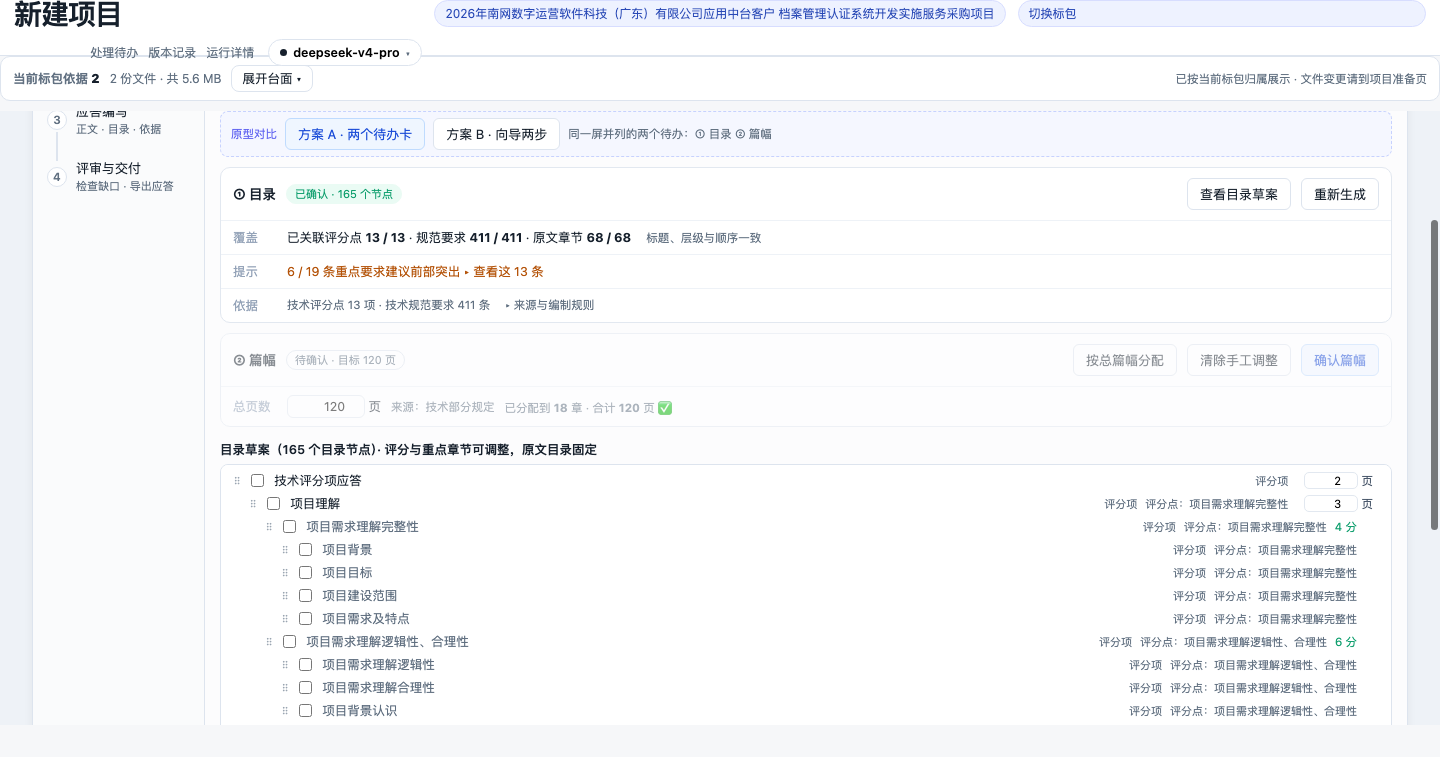
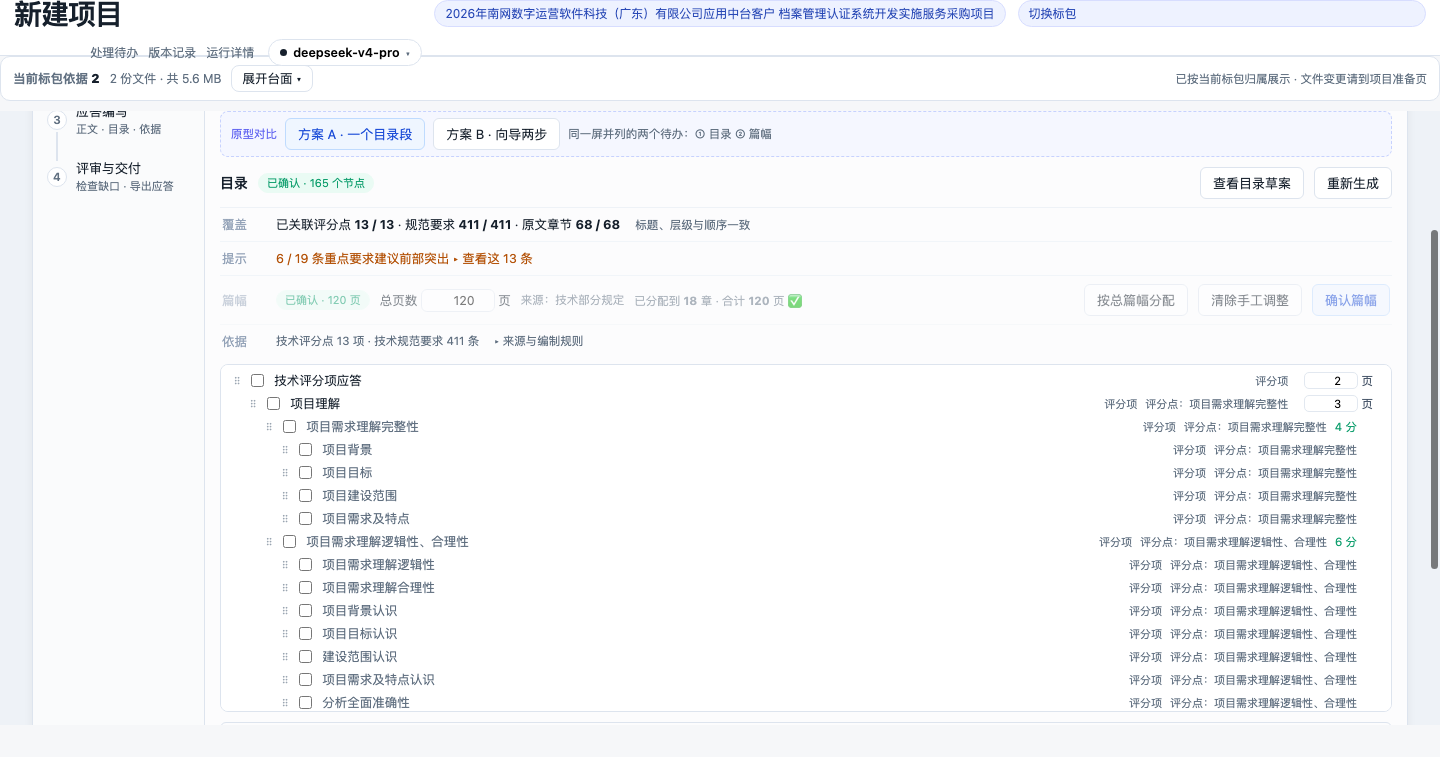
docs(design): 产品审查后的方案 A 改版 —— 目录是一个对象，四行同级
## 审查发现
1. 「目录」被切成三处：① 目录卡（结论）→ ② 篇幅卡 → 目录草案 h5+165 行（内容），
   篇幅卡把结论与内容劈开，认知顺序被打断
2. 信息确实不是一个层级：卡片级（目录/篇幅两张卡）→ h5 小标题（目录草案）→ 行（sr-erow）
   三种层级混排，且「目录」与「目录草案」两个名字重复指同一对象

## 审查结论
目录是一个对象，其内部三类信息应同级：
  section 标题「目录」（与"应答类型"同级）
  ├ 覆盖行 / 提示行 / 篇幅行 / 依据行   ← 四行同级，篇幅是"列表的表头控制"
  └ 165 行目录（带页数列）

## 改版（方案 A）
- 取消两张卡片，改为一个「目录」段：标题 + 右侧状态胶囊「已确认 · 165 个节点」+ 两个动作
- 段内四行同级：覆盖 / 提示 / 篇幅 / 依据；篇幅有自己的状态胶囊与动作，不再另起一张卡
- 隐藏重复的「目录草案（165 个节点）」h5（标题已并入"目录"段）
- 篇幅确认后主操作推进为产品原有的「进入技术应答编写」

## 修掉自己引入的一个错误
改版时误把目录状态胶囊写成篇幅文案（显示"待确认 · 目标 120 页"）；
已恢复目录胶囊为「已确认 · 165 个节点」，篇幅状态移到篇幅行自己的胶囊。

## 实测
方案A：四行同级 ✅ · 重复 h5 隐藏 ✅ · 18 行可编辑 · 合计 120 页 ✅ ·
        确认篇幅后胶囊变「已确认 · 120 页」且出现进入编写 ✅
方案B：第 1 步 0 个页数输入、第 2 步灰态；确认目录后 18 行出现 ✅ · 无 JS 错误 ✅

diff --git a/docs/design/mockups/prod-prototype.html b/docs/design/mockups/prod-prototype.html
@@ -9266,59 +9266,54 @@ GB/T 35274-2023《数据安全技术 大数据服务安全能力要求》
       
       <div id="protoSwitch" style="display:flex;align-items:center;gap:8px;margin:10px 0;padding:6px 10px;border:1px dashed #c7d2fe;border-radius:8px;background:#f5f7ff">
         <span style="font-size:11.5px;color:#6366f1">原型对比</span>
-        <button class="mw-btn" id="btnPlanA" style="border-color:#bfdbfe;background:#eff6ff;color:#1d4ed8">方案 A · 两个待办卡</button>
+        <button class="mw-btn" id="btnPlanA" style="border-color:#bfdbfe;background:#eff6ff;color:#1d4ed8">方案 A · 一个目录段</button>
         <button class="mw-btn" id="btnPlanB">方案 B · 向导两步</button>
-        <span class="sr-dim" id="protoHint">同一屏并列的两个待办：① 目录  ② 篇幅</span>
+        <span class="sr-dim" id="protoHint">目录是一个对象：摘要 / 篇幅 / 依据 同级，列表在下</span>
       </div>
 
-      <!-- ══ 方案 A：两个待办卡 ══ -->
+      <!-- ══ 方案 A：一个「目录」段，四行同级 ══ -->
       <div id="planA">
-        <div class="pcard" style="border:1px solid #e2e8f0;border-radius:10px;background:#fff;margin-bottom:10px">
-          <div style="display:flex;align-items:center;gap:10px;padding:10px 12px;border-bottom:1px solid #eef2f7">
-            <b style="font-size:13.5px">① 目录</b>
-            <span class="ui-pill is-ok">已确认 · 165 个节点</span>
-            <span style="flex:1"></span>
-            <button class="mw-btn">查看目录草案</button>
-            <button class="mw-btn">重新生成</button>
-          </div>
-          <div style="display:flex;gap:10px;padding:8px 12px;border-bottom:1px solid #eef2f7;font-size:12.5px">
+        <div style="display:flex;align-items:center;gap:10px;padding:0 0 8px">
+          <b style="font-size:14px">目录</b>
+          <span class="ui-pill is-ok" id="dirStatusA">已确认 · 165 个节点</span>
+          <span style="flex:1"></span>
+          <button class="mw-btn">查看目录草案</button>
+          <button class="mw-btn">重新生成</button>
+        </div>
+
+        <div style="border-top:1px solid #eef2f7">
+          <div class="prow" style="display:flex;gap:10px;padding:8px 2px;border-bottom:1px solid #f1f5f9;font-size:12.5px">
             <span style="flex:none;width:44px;color:#94a3b8">覆盖</span>
             <span>已关联评分点 <b>13 / 13</b> · 规范要求 <b>411 / 411</b> · 原文章节 <b>68 / 68</b>
               <span class="sr-dim">　标题、层级与顺序一致</span></span>
           </div>
-          <div style="display:flex;gap:10px;padding:8px 12px;border-bottom:1px solid #eef2f7;font-size:12.5px">
+          <div class="prow" style="display:flex;gap:10px;padding:8px 2px;border-bottom:1px solid #f1f5f9;font-size:12.5px">
             <span style="flex:none;width:44px;color:#94a3b8">提示</span>
             <span style="color:#b45309">6 / 19 条重点要求建议前部突出
               <details style="display:inline"><summary style="display:inline;cursor:pointer">▸ 查看这 13 条</summary></details></span>
           </div>
-          <div style="display:flex;gap:10px;padding:8px 12px;font-size:12.5px">
-            <span style="flex:none;width:44px;color:#94a3b8">依据</span>
-            <span class="sr-dim">技术评分点 13 项 · 技术规范要求 411 条　
-              <details style="display:inline"><summary style="display:inline;cursor:pointer">▸ 来源与编制规则</summary></details></span>
-          </div>
-        </div>
-
-        <div class="pcard" id="cardBudgetA" style="border:1px solid #e2e8f0;border-radius:10px;background:#fff;margin-bottom:12px">
-          <div style="display:flex;align-items:center;gap:10px;padding:10px 12px;border-bottom:1px solid #eef2f7">
-            <b style="font-size:13.5px">② 篇幅</b>
-            <span class="ui-pill is-none" id="budgetStatusA">待确认 · 目标 120 页</span>
+          <div class="prow" id="budgetRowA" style="display:flex;gap:10px;padding:8px 2px;border-bottom:1px solid #f1f5f9;font-size:12.5px;align-items:center;flex-wrap:wrap">
+            <span style="flex:none;width:44px;color:#94a3b8">篇幅</span>
+            <span class="ui-pill is-none" id="budgetPillA">待确认</span>
+            <span>总页数 <input type="number" id="totalPgA" value="120" style="width:74px;font:inherit;font-size:12.5px;padding:3px 8px;border:1px solid #e2e8f0;border-radius:6px;text-align:right" /> 页</span>
+            <span class="sr-dim">来源：技术部分规定</span>
+            <span class="sr-dim" id="sumA"></span>
             <span style="flex:1"></span>
             <button class="mw-btn" id="btnAllocA">按总篇幅分配</button>
             <button class="mw-btn" id="btnResetA">清除手工调整</button>
             <button class="mw-btn primary" id="btnConfirmA">确认篇幅</button>
           </div>
-          <div style="display:flex;gap:10px;padding:8px 12px;align-items:center;flex-wrap:wrap;font-size:12.5px">
-            <span style="flex:none;width:44px;color:#94a3b8">总页数</span>
-            <span><input type="number" id="totalPgA" value="120" style="width:78px;font:inherit;font-size:12.5px;padding:3px 8px;border:1px solid #e2e8f0;border-radius:6px;text-align:right" /> 页</span>
-            <span class="sr-dim">来源：技术部分规定</span>
-            <span class="sr-dim" id="sumA"></span>
+          <div class="prow" style="display:flex;gap:10px;padding:8px 2px;font-size:12.5px">
+            <span style="flex:none;width:44px;color:#94a3b8">依据</span>
+            <span class="sr-dim">技术评分点 13 项 · 技术规范要求 411 条　
+              <details style="display:inline"><summary style="display:inline;cursor:pointer">▸ 来源与编制规则</summary></details></span>
           </div>
         </div>
       </div>
 
       <!-- ══ 方案 B：向导两步 ══ -->
       <div id="planB" style="display:none">
-        <div style="display:flex;align-items:center;gap:10px;margin-bottom:10px">
+        <div style="display:flex;align-items:center;gap:10px;margin:10px 0">
           <span class="ui-pill is-ok" id="stepTag1">① 确认目录</span>
           <span class="sr-dim">──────</span>
           <span class="ui-pill is-none" id="stepTag2">② 确认篇幅</span>
@@ -9333,15 +9328,11 @@ GB/T 35274-2023《数据安全技术 大数据服务安全能力要求》
         </div>
         <div id="stepBox2" style="border:1px solid #e2e8f0;border-radius:10px;background:#fff;padding:12px;margin-bottom:12px;opacity:.5;pointer-events:none">
           <div style="font-size:12.5px;margin-bottom:8px">总页数
-            <input type="number" id="totalPgB" value="120" style="width:78px;font:inherit;font-size:12.5px;padding:3px 8px;border:1px solid #e2e8f0;border-radius:6px;text-align:right" /> 页
-            <span class="sr-dim">来源：技术部分规定</span>
-            <span class="sr-dim" id="sumB"></span></div>
-          <div style="display:flex;gap:8px">
-            <button class="mw-btn" id="btnAllocB">按总篇幅分配</button>
-            <button class="mw-btn" id="btnResetB">清除手工调整</button>
-            <span style="flex:1"></span>
-            <button class="mw-btn primary" id="btnConfirmB">确认篇幅 →</button>
-          </div>
+            <input type="number" id="totalPgB" value="120" style="width:74px;font:inherit;font-size:12.5px;padding:3px 8px;border:1px solid #e2e8f0;border-radius:6px;text-align:right" /> 页
+            <span class="sr-dim">来源：技术部分规定</span> <span class="sr-dim" id="sumB"></span></div>
+          <div style="display:flex;gap:8px"><button class="mw-btn" id="btnAllocB">按总篇幅分配</button>
+            <button class="mw-btn" id="btnResetB">清除手工调整</button><span style="flex:1"></span>
+            <button class="mw-btn primary" id="btnConfirmB">确认篇幅 →</button></div>
         </div>
       </div>
 <h5 class="sr-sec">目录草案（165 个目录节点）· 评分与重点章节可调整，原文目录固定</h5>
@@ -12018,22 +12009,11 @@ GB/T 35274-2023《数据安全技术 大数据服务安全能力要求》
     <div class="cs-workspace">
       <aside class="cs-tree"><div class="cs-tree-label">应答目录</div><input type="search" data-cs="search" placeholder="搜索章节" aria-label="搜索章节"><div data-cs="tree"><button class="cs-node " data-chapter="38706" style="padding-left:8px" title="技术评分项应答"><span>技术评分项应答</span><small>目录</small></button><button class="cs-node " data-chapter="38707" style="padding-left:20px" title="项目理解"><span>项目理解</span><small>目录</small></button><button class="cs-node " data-chapter="38708" style="padding-left:32px" title="项目需求理解完整性"><span>项目需求理解完整性</span><small>目录</small></button><button class="cs-node " data-chapter="38918" style="padding-left:44px" title="项目背景"><span>项目背景</span><small>待核对</small></button><button class="cs-node on" data-chapter="38919" style="padding-left:44px" title="项目目标"><span>项目目标</span><small>未开始</small></button><button class="cs-node " data-chapter="38920" style="padding-left:44px" title="项目建设范围"><span>项目建设范围</span><small>未开始</small></button><button class="cs-node " data-chapter="38921" style="padding-left:44px" title="项目需求及特点"><span>项目需求及特点</span><small>未开始</small></button><button class="cs-node " data-chapter="38709" style="padding-left:32px" title="项目需求理解逻辑性、合理性"><span>项目需求理解逻辑性、合理性</span><small>目录</small></button><button class="cs-node " data-chapter="38922" style="padding-left:44px" title="项目需求理解逻辑性"><span>项目需求理解逻辑性</span><small>未开始</small></button><button class="cs-node " data-chapter="38923" style="padding-left:44px" title="项目需求理解合理性"><span>项目需求理解合理性</span><small>未开始</small></button><button class="cs-node " data-chapter="38924" style="padding-left:44px" title="项目背景认识"><span>项目背景认识</span><small>未开始</small></button><button class="cs-node " data-chapter="38925" style="padding-left:44px" title="项目目标认识"><span>项目目标认识</span><small>未开始</small></button><button class="cs-node " data-chapter="38926" style="padding-left:44px" title="建设范围认识"><span>建设范围认识</span><small>未开始</small></button><button class="cs-node " data-chapter="38927" style="padding-left:44px" title="项目需求及特点认识"><span>项目需求及特点认识</span><small>未开始</small></button><button class="cs-node " data-chapter="38928" style="padding-left:44px" title="分析全面准确性"><span>分析全面准确性</span><small>未开始</small></button><button class="cs-node " data-chapter="38929" style="padding-left:44px" title="描述清晰详细性"><span>描述清晰详细性</span><small>未开始</small></button><button class="cs-node " data-chapter="38710" style="padding-left:32px" title="项目重难点分析及解决方案的完整性"><span>项目重难点分析及解决方案的完整性</span><small>目录</small></button><button class="cs-node " data-chapter="38930" style="padding-left:44px" title="重点分析"><span>重点分析</span><small>未开始</small></button><button class="cs-node " data-chapter="38931" style="padding-left:44px" title="难点分析"><span>难点分析</span><small>未开始</small></button><button class="cs-node " data-chapter="38932" style="padding-left:44px" title="解决方案及措施"><span>解决方案及措施</span><small>未开始</small></button><button class="cs-node " data-chapter="38933" style="padding-left:44px" title="功能实现方案"><span>功能实现方案</span><small>未开始</small></button><button class="cs-node " data-chapter="38711" style="padding-left:32px" title="项目重难点"><span>项目重难点</span><small>目录</small></button><button class="cs-node " data-chapter="38934" style="padding-left:44px" title="项目重难点分析"><span>项目重难点分析</span><small>未开始</small></button><button class="cs-node " data-chapter="38935" style="padding-left:44px" title="解决方案"><span>解决方案</span><small>未开始</small></button><button class="cs-node " data-chapter="38936" style="padding-left:44px" title="方案科学性"><span>方案科学性</span><small>未开始</small></button><button class="cs-node " data-chapter="38937" style="padding-left:44px" title="方案合理性"><span>方案合理性</span><small>未开始</small></button><button class="cs-node " data-chapter="38938" style="padding-left:44px" title="方案先进性"><span>方案先进性</span><small>未开始</small></button><button class="cs-node " data-chapter="38939" style="padding-left:44px" title="方案可靠性"><span>方案可靠性</span><small>未开始</small></button><button class="cs-node " data-chapter="38940" style="padding-left:44px" title="招标文件要求理解"><span>招标文件要求理解</span><small>未开始</small></button><button class="cs-node " data-chapter="38941" style="padding-left:44px" title="描述清晰详细"><span>描述清晰详细</span><small>未开始</small></button><button class="cs-node " data-chapter="38712" style="padding-left:20px" title="项目进度计划"><span>项目进度计划</span><small>目录</small></button><button class="cs-node " data-chapter="38713" style="padding-left:32px" title="进度计划及保障措施"><span>进度计划及保障措施</span><small>目录</small></button><button class="cs-node " data-chapter="38942" style="padding-left:44px" title="进度计划分解"><span>进度计划分解</span><small>待核对</small></button><button class="cs-node " data-chapter="38943" style="padding-left:44px" title="计划合理可行"><span>计划合理可行</span><small>未开始</small></button><button class="cs-node " data-chapter="38944" style="padding-left:44px" title="满足项目建设要求"><span>满足项目建设要求</span><small>未开始</small></button><button class="cs-node " data-chapter="38945" style="padding-left:44px" title="描述详细"><span>描述详细</span><small>未开始</small></button><button class="cs-node " data-chapter="38946" style="padding-left:44px" title="进度保障措施"><span>进度保障措施</span><small>未开始</small></button><button class="cs-node " data-chapter="38947" style="padding-left:44px" title="可操作性强"><span>可操作性强</span><small>未开始</small></button><button class="cs-node " data-chapter="38721" style="padding-left:20px" title="项目团队人员"><span>项目团队人员</span><small>目录</small></button><button class="cs-node " data-chapter="38722" style="padding-left:32px" title="团队人员学历情况"><span>团队人员学历情况</span><small>目录</small></button><button class="cs-node " data-chapter="38948" style="padding-left:44px" title="项目团队本科及以上学历人数"><span>项目团队本科及以上学历人数</span><small>未开始</small></button><button class="cs-node " data-chapter="38949" style="padding-left:44px" title="连续6个月社保缴纳证明"><span>连续6个月社保缴纳证明</span><small>未开始</small></button><button class="cs-node " data-chapter="38950" style="padding-left:44px" title="学历、学位证书"><span>学历、学位证书</span><small>未开始</small></button><button class="cs-node " data-chapter="38951" style="padding-left:44px" title="学信网认证证明"><span>学信网认证证明</span><small>未开始</small></button><button class="cs-node " data-chapter="38952" style="padding-left:44px" title="学历真实性承诺"><span>学历真实性承诺</span><small>未开始</small></button><button class="cs-node " data-chapter="38953" style="padding-left:44px" title="国（境）外学位证书"><span>国（境）外学位证书</span><small>未开始</small></button><button class="cs-node " data-chapter="38954" style="padding-left:44px" title="国外学历学位认证书"><span>国外学历学位认证书</span><small>未开始</small></button><button class="cs-node " data-chapter="38723" style="padding-left:32px" title="项目负责人"><span>项目负责人</span><small>目录</small></button><button class="cs-node " data-chapter="38955" style="padding-left:44px" title="项目负责人资格证书"><span>项目负责人资格证书</span><small>未开始</small></button><button class="cs-node " data-chapter="38956" style="padding-left:44px" title="同类项目负责人经验"><span>同类项目负责人经验</span><small>未开始</small></button><button class="cs-node " data-chapter="38957" style="padding-left:44px" title="项目负责人简历"><span>项目负责人简历</span><small>未开始</small></button><button class="cs-node " data-chapter="38958" style="padding-left:44px" title="连续6个月社保证明"><span>连续6个月社保证明</span><small>未开始</small></button><button class="cs-node " data-chapter="38959" style="padding-left:44px" title="相关项目合同证明文件"><span>相关项目合同证明文件</span><small>未开始</small></button><button class="cs-node " data-chapter="38724" style="padding-left:32px" title="团队其他成员相关经验情况"><span>团队其他成员相关经验情况</span><small>目录</small></button><button class="cs-node " data-chapter="38961" style="padding-left:44px" title="团队其他成员同类项目经验"><span>团队其他成员同类项目经验</span><small>未开始</small></button><button class="cs-node " data-chapter="38962" style="padding-left:44px" title="同类项目经验界定"><span>同类项目经验界定</span><small>未开始</small></button><button class="cs-node " data-chapter="38963" style="padding-left:44px" title="合同关键页复印件"><span>合同关键页复印件</span><small>未开始</small></button><button class="cs-node " data-chapter="38964" style="padding-left:44px" title="合同关键页内容要素"><span>合同关键页内容要素</span><small>未开始</small></button><button class="cs-node " data-chapter="38965" style="padding-left:44px" title="甲方出具证明材料"><span>甲方出具证明材料</span><small>未开始</small></button><button class="cs-node " data-chapter="38725" style="padding-left:32px" title="项目团队其他成员资质证书情况"><span>项目团队其他成员资质证书情况</span><small>目录</small></button><button class="cs-node " data-chapter="38967" style="padding-left:44px" title="团队其他成员配置"><span>团队其他成员配置</span><small>未开始</small></button><button class="cs-node " data-chapter="38968" style="padding-left:44px" title="一类资质证书"><span>一类资质证书</span><small>未开始</small></button><button class="cs-node " data-chapter="38969" style="padding-left:44px" title="二类资质证书"><span>二类资质证书</span><small>未开始</small></button><button class="cs-node " data-chapter="38970" style="padding-left:44px" title="证书证明材料"><span>证书证明材料</span><small>未开始</small></button><button class="cs-node " data-chapter="38726" style="padding-left:20px" title="项目业绩"><span>项目业绩</span><small>目录</small></button><button class="cs-node " data-chapter="38727" style="padding-left:32px" title="经验案例"><span>经验案例</span><small>目录</small></button><button class="cs-node " data-chapter="38971" style="padding-left:44px" title="近三年项目业绩"><span>近三年项目业绩</span><small>未开始</small></button><button class="cs-node " data-chapter="38972" style="padding-left:44px" title="信息化领域同类型项目"><span>信息化领域同类型项目</span><small>未开始</small></button><button class="cs-node " data-chapter="38973" style="padding-left:44px" title="项目金额规模"><span>项目金额规模</span><small>未开始</small></button><button class="cs-node " data-chapter="38974" style="padding-left:44px" title="信息系统开发实施类项目"><span>信息系统开发实施类项目</span><small>未开始</small></button><button class="cs-node " data-chapter="38975" style="padding-left:44px" title="中标通知书"><span>中标通知书</span><small>未开始</small></button><button class="cs-node " data-chapter="38976" style="padding-left:44px" title="合同关键页扫描件"><span>合同关键页扫描件</span><small>未开始</small></button><button class="cs-node " data-chapter="38977" style="padding-left:20px" title="开发要求"><span>开发要求</span><small>目录</small></button><button class="cs-node " data-chapter="38978" style="padding-left:32px" title="功能要求"><span>功能要求</span><small>目录</small></button><button class="cs-node " data-chapter="38979" style="padding-left:44px" title="技术规范书功能要求响应"><span>技术规范书功能要求响应</span><small>未开始</small></button><button class="cs-node " data-chapter="38980" style="padding-left:44px" title="功能拓展或优化"><span>功能拓展或优化</span><small>未开始</small></button><button class="cs-node " data-chapter="38981" style="padding-left:44px" title="优于项佐证材料"><span>优于项佐证材料</span><small>未开始</small></button><button class="cs-node " data-chapter="38982" style="padding-left:44px" title="原型截图或测试报告"><span>原型截图或测试报告</span><small>未开始</small></button><button class="cs-node " data-chapter="38983" style="padding-left:20px" title="技术实现方案"><span>技术实现方案</span><small>目录</small></button><button class="cs-node " data-chapter="38984" style="padding-left:32px" title="工作方案的完整性"><span>工作方案的完整性</span><small>目录</small></button><button class="cs-node " data-chapter="38985" style="padding-left:44px" title="代码编写"><span>代码编写</span><small>未开始</small></button><button class="cs-node " data-chapter="38986" style="padding-left:44px" title="测试工作"><span>测试工作</span><small>未开始</small></button><button class="cs-node " data-chapter="38987" style="padding-left:44px" title="集成工作"><span>集成工作</span><small>未开始</small></button><button class="cs-node " data-chapter="38988" style="padding-left:44px" title="技术质量管理方案"><span>技术质量管理方案</span><small>未开始</small></button><button class="cs-node " data-chapter="38989" style="padding-left:32px" title="工作方案的科学性、合理性、先进性、可靠性"><span>工作方案的科学性、合理性、先进性、可靠性</span><small>目录</small></button><button class="cs-node " data-chapter="38990" style="padding-left:44px" title="项目技术工作方案"><span>项目技术工作方案</span><small>待核对</small></button><button class="cs-node " data-chapter="38991" style="padding-left:44px" title="方案科学性"><span>方案科学性</span><small>未开始</small></button><button class="cs-node " data-chapter="38992" style="padding-left:44px" title="方案合理性"><span>方案合理性</span><small>未开始</small></button><button class="cs-node " data-chapter="38993" style="padding-left:44px" title="方案先进性"><span>方案先进性</span><small>未开始</small></button><button class="cs-node " data-chapter="38994" style="padding-left:44px" title="方案可靠性"><span>方案可靠性</span><small>未开始</small></button><button class="cs-node " data-chapter="38995" style="padding-left:44px" title="项目技术要求响应"><span>项目技术要求响应</span><small>未开始</small></button><button class="cs-node " data-chapter="38996" style="padding-left:44px" title="技术成熟度"><span>技术成熟度</span><small>未开始</small></button><button class="cs-node " data-chapter="38997" style="padding-left:44px" title="方案可扩展性"><span>方案可扩展性</span><small>目录</small></button><button class="cs-node " data-chapter="38998" style="padding-left:56px" title="7. 其他"><span>7. 其他</span><small>未开始</small></button><button class="cs-node " data-chapter="38735" style="padding-left:8px" title="重点及必须响应要求"><span>重点及必须响应要求</span><small>目录</small></button><button class="cs-node " data-chapter="38999" style="padding-left:20px" title="3.4.2. ★自主可控要求"><span>3.4.2. ★自主可控要求</span><small>待核对</small></button><button class="cs-node " data-chapter="38747" style="padding-left:8px" title="技术规范书点对点应答"><span>技术规范书点对点应答</span><small>目录</small></button><button class="cs-node " data-chapter="38748" style="padding-left:20px" title="1. 总则"><span>1. 总则</span><small>目录</small></button><button class="cs-node " data-chapter="38749" style="padding-left:32px" title="1.1. 概述"><span>1.1. 概述</span><small>未开始</small></button><button class="cs-node " data-chapter="38750" style="padding-left:32px" title="1.2. 招标范围及计划工期要求"><span>1.2. 招标范围及计划工期要求</span><small>目录</small></button><button class="cs-node " data-chapter="39008" style="padding-left:44px" title="1.2.1. 招标范围"><span>1.2.1. 招标范围</span><small>未开始</small></button><button class="cs-node " data-chapter="39009" style="padding-left:44px" title="1.2.2. 计划工期"><span>1.2.2. 计划工期</span><small>未开始</small></button><button class="cs-node " data-chapter="38751" style="padding-left:32px" title="1.3. 对技术投标文件的编制要求"><span>1.3. 对技术投标文件的编制要求</span><small>目录</small></button><button class="cs-node " data-chapter="39010" style="padding-left:44px" title="一、综述"><span>一、综述</span><small>未开始</small></button><button class="cs-node " data-chapter="39011" style="padding-left:44px" title="二、工作方案"><span>二、工作方案</span><small>未开始</small></button><button class="cs-node " data-chapter="39012" style="padding-left:44px" title="三、售后服务及技术支持"><span>三、售后服务及技术支持</span><small>未开始</small></button><button class="cs-node " data-chapter="39013" style="padding-left:44px" title="四、项目管理"><span>四、项目管理</span><small>未开始</small></button><button class="cs-node " data-chapter="39014" style="padding-left:44px" title="五、其他"><span>五、其他</span><small>未开始</small></button><button class="cs-node " data-chapter="38752" style="padding-left:32px" title="1.4. 遵循标准"><span>1.4. 遵循标准</span><small>未开始</small></button><button class="cs-node " data-chapter="38756" style="padding-left:20px" title="2. 项目描述"><span>2. 项目描述</span><small>目录</small></button><button class="cs-node " data-chapter="38757" style="padding-left:32px" title="2.1. 项目背景"><span>2.1. 项目背景</span><small>未开始</small></button><button class="cs-node " data-chapter="38758" style="padding-left:32px" title="2.2. 项目目标"><span>2.2. 项目目标</span><small>未开始</small></button><button class="cs-node " data-chapter="38759" style="padding-left:32px" title="2.3. 项目范围"><span>2.3. 项目范围</span><small>未开始</small></button><button class="cs-node " data-chapter="38760" style="padding-left:32px" title="2.4. 项目依据"><span>2.4. 项目依据</span><small>未开始</small></button><button class="cs-node " data-chapter="38763" style="padding-left:20px" title="3. 项目服务内容及要求"><span>3. 项目服务内容及要求</span><small>目录</small></button><button class="cs-node " data-chapter="38764" style="padding-left:32px" title="3.1. 项目服务内容"><span>3.1. 项目服务内容</span><small>未开始</small></button><button class="cs-node " data-chapter="38765" style="padding-left:32px" title="3.2. 功能要求"><span>3.2. 功能要求</span><small>目录</small></button><button class="cs-node " data-chapter="39015" style="padding-left:44px" title="3.2.1. 客户档案管理模块"><span>3.2.1. 客户档案管理模块</span><small>未开始</small></button><button class="cs-node " data-chapter="39016" style="padding-left:44px" title="3.2.2. 客户标签管理模块"><span>3.2.2. 客户标签管理模块</span><small>未开始</small></button><button class="cs-node " data-chapter="39017" style="padding-left:44px" title="3.2.3. 客户全景视图管理模块"><span>3.2.3. 客户全景视图管理模块</span><small>未开始</small></button><button class="cs-node " data-chapter="39018" style="padding-left:44px" title="3.2.4. 客户行为管理模块"><span>3.2.4. 客户行为管理模块</span><small>未开始</small></button><button class="cs-node " data-chapter="39019" style="padding-left:44px" title="3.2.5. 客户认证管理模块"><span>3.2.5. 客户认证管理模块</span><small>未开始</small></button><button class="cs-node " data-chapter="39020" style="padding-left:44px" title="3.2.6. 客户关系管理模块"><span>3.2.6. 客户关系管理模块</span><small>未开始</small></button><button class="cs-node " data-chapter="39021" style="padding-left:44px" title="3.2.7. 业务档案管理模块"><span>3.2.7. 业务档案管理模块</span><small>未开始</small></button><button class="cs-node " data-chapter="38766" style="padding-left:32px" title="3.3. 性能要求"><span>3.3. 性能要求</span><small>未开始</small></button><button class="cs-node " data-chapter="38767" style="padding-left:32px" title="3.4. 技术管控要求"><span>3.4. 技术管控要求</span><small>目录</small></button><button class="cs-node " data-chapter="39022" style="padding-left:44px" title="3.4.1. 技术管控要求"><span>3.4.1. 技术管控要求</span><small>未开始</small></button><button class="cs-node " data-chapter="39023" style="padding-left:44px" title="3.4.2. ★自主可控要求"><span>3.4.2. ★自主可控要求</span><small>未开始</small></button><button class="cs-node " data-chapter="38768" style="padding-left:32px" title="3.5. 项目工期要求"><span>3.5. 项目工期要求</span><small>未开始</small></button><button class="cs-node " data-chapter="38769" style="padding-left:20px" title="4. 项目实施"><span>4. 项目实施</span><small>目录</small></button><button class="cs-node " data-chapter="38770" style="padding-left:32px" title="4.1. 组织保障要求"><span>4.1. 组织保障要求</span><small>未开始</small></button><button class="cs-node " data-chapter="38771" style="padding-left:32px" title="4.2. 项目组织人员要求"><span>4.2. 项目组织人员要求</span><small>目录</small></button><button class="cs-node " data-chapter="39024" style="padding-left:44px" title="4.2.1. 项目经理要求"><span>4.2.1. 项目经理要求</span><small>未开始</small></button><button class="cs-node " data-chapter="39025" style="padding-left:44px" title="4.2.2. 项目服务团队要求"><span>4.2.2. 项目服务团队要求</span><small>未开始</small></button><button class="cs-node " data-chapter="38772" style="padding-left:32px" title="4.3. 项目进度要求"><span>4.3. 项目进度要求</span><small>目录</small></button><button class="cs-node " data-chapter="39026" style="padding-left:44px" title="4.3.1. 总体进度要求"><span>4.3.1. 总体进度要求</span><small>未开始</small></button><button class="cs-node " data-chapter="39027" style="padding-left:44px" title="4.3.2. 进度管理要求"><span>4.3.2. 进度管理要求</span><small>未开始</small></button><button class="cs-node " data-chapter="38773" style="padding-left:32px" title="4.4. 联络会议"><span>4.4. 联络会议</span><small>目录</small></button><button class="cs-node " data-chapter="39028" style="padding-left:44px" title="4.4.1. 项目例会"><span>4.4.1. 项目例会</span><small>未开始</small></button><button class="cs-node " data-chapter="39029" style="padding-left:44px" title="4.4.2. 项目联络会"><span>4.4.2. 项目联络会</span><small>未开始</small></button><button class="cs-node " data-chapter="39030" style="padding-left:32px" title="4.5. 质量要求"><span>4.5. 质量要求</span><small>未开始</small></button><button class="cs-node " data-chapter="39031" style="padding-left:32px" title="4.6. 项目验收要求"><span>4.6. 项目验收要求</span><small>目录</small></button><button class="cs-node " data-chapter="39032" style="padding-left:44px" title="4.6.1. 验收标准"><span>4.6.1. 验收标准</span><small>未开始</small></button><button class="cs-node " data-chapter="39033" style="padding-left:44px" title="4.6.2. 验收方法"><span>4.6.2. 验收方法</span><small>未开始</small></button><button class="cs-node " data-chapter="39034" style="padding-left:44px" title="4.6.3. 初步验收"><span>4.6.3. 初步验收</span><small>未开始</small></button><button class="cs-node " data-chapter="39035" style="padding-left:44px" title="4.6.4. 竣工验收"><span>4.6.4. 竣工验收</span><small>未开始</small></button><button class="cs-node " data-chapter="39036" style="padding-left:32px" title="4.7. 项目交付成果"><span>4.7. 项目交付成果</span><small>未开始</small></button><button class="cs-node " data-chapter="39037" style="padding-left:32px" title="4.8. 项目培训要求"><span>4.8. 项目培训要求</span><small>目录</small></button><button class="cs-node " data-chapter="39038" style="padding-left:44px" title="4.8.1. 培训要求"><span>4.8.1. 培训要求</span><small>未开始</small></button><button class="cs-node " data-chapter="39039" style="padding-left:44px" title="4.8.2. 培训方式"><span>4.8.2. 培训方式</span><small>未开始</small></button><button class="cs-node " data-chapter="39040" style="padding-left:44px" title="4.8.3. 现场培训"><span>4.8.3. 现场培训</span><small>未开始</small></button><button class="cs-node " data-chapter="39041" style="padding-left:44px" title="4.8.4. 其他培训要求"><span>4.8.4. 其他培训要求</span><small>未开始</small></button><button class="cs-node " data-chapter="39042" style="padding-left:32px" title="4.9. 供应商绩效满意度评价要求"><span>4.9. 供应商绩效满意度评价要求</span><small>未开始</small></button><button class="cs-node " data-chapter="39043" style="padding-left:20px" title="5. 项目售后服务和技术支持"><span>5. 项目售后服务和技术支持</span><small>目录</small></button><button class="cs-node " data-chapter="39044" style="padding-left:32px" title="5.1. 售后服务总体要求"><span>5.1. 售后服务总体要求</span><small>未开始</small></button><button class="cs-node " data-chapter="39045" style="padding-left:32px" title="5.2. 应急预案"><span>5.2. 应急预案</span><small>未开始</small></button><button class="cs-node " data-chapter="39046" style="padding-left:32px" title="5.3. 资源保障"><span>5.3. 资源保障</span><small>未开始</small></button><button class="cs-node " data-chapter="39047" style="padding-left:32px" title="5.4. 技术维护支持"><span>5.4. 技术维护支持</span><small>目录</small></button><button class="cs-node " data-chapter="39048" style="padding-left:44px" title="5.4.1. 技术维护支持服务"><span>5.4.1. 技术维护支持服务</span><small>未开始</small></button><button class="cs-node " data-chapter="39049" style="padding-left:44px" title="5.4.2. 维护工具"><span>5.4.2. 维护工具</span><small>未开始</small></button><button class="cs-node " data-chapter="39050" style="padding-left:20px" title="6. 安全保密要求"><span>6. 安全保密要求</span><small>目录</small></button><button class="cs-node " data-chapter="39051" style="padding-left:32px" title="6.1. 个人信息提供"><span>6.1. 个人信息提供</span><small>未开始</small></button><button class="cs-node " data-chapter="39052" style="padding-left:32px" title="6.2. 行为规范"><span>6.2. 行为规范</span><small>未开始</small></button><button class="cs-node " data-chapter="39053" style="padding-left:20px" title="7. 其他"><span>7. 其他</span><small>未开始</small></button><button class="cs-node " data-chapter="39054" style="padding-left:20px" title="8. 效力说明"><span>8. 效力说明</span><small>未开始</small></button></div></aside>
       <main class="cs-main">
-        <div class="cs-chapter-heading" data-cs="chapter-head"><h3>项目目标</h3><span class="cs-chapter-state">未开始</span>
-        <div id="segBar" style="display:flex;gap:8px;align-items:center;flex-wrap:wrap;margin-top:7px;font-size:12px;color:#64748b">
-          <span>本章 <b id="segCount">6</b> 个块：</span>
-          <span class="ui-pill is-ok">AI 已编 <b id="nAi">2</b></span>
-          <span class="ui-pill is-none">人工改过 <b id="nHuman">2</b></span>
-          <span class="ui-pill is-none">未编制 <b id="nTodo">1</b></span>
-          <span class="ui-pill is-none">表格 <b id="nTable">1</b></span>
-          <span style="margin-left:auto">人工修改和移除的段落不会被覆盖</span>
-        </div>
-      </div>
-        <div class="cs-toolbar"><button data-action="ai" class="cs-primary" title="启动本章编制；在右侧查看进度">重新编制本章</button><button data-action="save" disabled="">保存</button><div class="cs-view-switch" role="group" aria-label="正文显示方式"><button data-action="edit" aria-pressed="true">编辑</button><button data-action="preview" aria-pressed="false">预览</button></div>
-      <div id="planBox" style="display:none;border:1px dashed #bfdbfe;background:#f8fbff;border-radius:9px;padding:10px 12px;margin:8px 14px 0;font-size:12px;line-height:1.7"></div>
-      <div id="doneBox" style="display:none;border:1px solid #e2e8f0;border-radius:9px;padding:10px 12px;margin:8px 14px 0;font-size:12px"></div><details class="cs-more"><summary>更多</summary><div class="cs-more-menu"><details data-add-menu=""><summary>添加内容</summary><button data-action="text">文字说明</button><button data-action="table">手动表格</button><button data-action="diagram">手动关系图</button></details><button data-action="complete">确认本章完成</button><button data-action="export-chapter">导出本章 Word</button><button data-action="export-group">导出本组 Word</button></div></details></div>
+        <div class="cs-chapter-heading" data-cs="chapter-head"><h3>项目目标</h3><span class="cs-chapter-state">未开始</span></div>
+        <div class="cs-toolbar"><button data-action="ai" class="cs-primary" title="启动本章编制；在右侧查看进度">重新编制本章</button><button data-action="save" disabled="">保存</button><div class="cs-view-switch" role="group" aria-label="正文显示方式"><button data-action="edit" aria-pressed="true">编辑</button><button data-action="preview" aria-pressed="false">预览</button></div><details class="cs-more"><summary>更多</summary><div class="cs-more-menu"><details data-add-menu=""><summary>添加内容</summary><button data-action="text">文字说明</button><button data-action="table">手动表格</button><button data-action="diagram">手动关系图</button></details><button data-action="complete">确认本章完成</button><button data-action="export-chapter">导出本章 Word</button><button data-action="export-group">导出本组 Word</button></div></details></div>
         <div data-cs="status" role="status" aria-live="polite"></div>
         <div data-cs="recovery" hidden=""></div>
-        <div class="cs-editor" id="blockView"></div>
+        <textarea class="cs-editor" data-cs="editor" aria-label="本章正文" placeholder="点击上方「AI 编制」生成本章内容，也可直接在此编写。生成结果将显示在这里；核对后点击「保存正文」。"></textarea>
         <div class="cs-live-writing" data-cs="live" hidden=""></div>
         <div class="cs-preview" data-cs="preview" hidden=""></div>
         <dialog class="cs-completion" data-cs="completion"><div data-cs="completion-summary"></div><div class="cs-completion-actions"><button data-action="completion-cancel">继续编辑</button><button data-action="completion-confirm">已核对，确认本章完成</button></div></dialog><div data-cs="export-status" role="status"></div>
@@ -15248,6 +15228,8 @@ GB/T 35274-2023《数据安全技术 大数据服务安全能力要求》
 
   var stage2=document.querySelector('.sr-stage[data-stage="2"]');
   /* 隐藏被这两套方案取代的原三块 */
+  stage2.querySelectorAll('h5.sr-sec').forEach(function(el){
+    if((el.textContent||'').indexOf('目录草案')===0) el.style.display='none'; });
   ['.response-basis-card','.response-coverage'].forEach(function(s){
     stage2.querySelectorAll(s).forEach(function(el){ el.style.display='none'; });
   });
@@ -15306,8 +15288,8 @@ GB/T 35274-2023《数据安全技术 大数据服务安全能力要求》
     $('sumB').innerHTML='已分配到 '+list.length+' 章 · 合计 '+sum+' 页 '+(ok?'✅':'⚠');
     var w=document.querySelector('[data-act="response-write"]');
     if(w) w.style.display = budgetConfirmed ? 'inline-block' : 'none';
-    $('budgetStatusA').textContent = budgetConfirmed ? '已确认 · '+total+' 页' : '待确认 · 目标 '+total+' 页';
-    $('budgetStatusA').className = 'ui-pill ' + (budgetConfirmed?'is-ok':'is-none');
+    $('budgetPillA').textContent = budgetConfirmed ? '已确认 · '+total+' 页' : '待确认 · 目标 '+total+' 页';
+    $('budgetPillA').className = 'ui-pill ' + (budgetConfirmed?'is-ok':'is-none');
     $('stepTag1').className='ui-pill '+(dirConfirmed?'is-ok':'is-none');
     $('stepTag2').className='ui-pill '+(budgetConfirmed?'is-ok':'is-none');
   }
@@ -15327,10 +15309,10 @@ GB/T 35274-2023《数据安全技术 大数据服务安全能力要求》
   /* 方案A：篇幅在目录未确认时灰态（顺序保障） */
   function gateA(){
     var gated = !dirConfirmed;
-    var c=$('cardBudgetA');
-    c.style.opacity = gated?'.5':'1';
-    c.style.pointerEvents = gated?'none':'auto';
-    c.title = gated?'请先确认目录，再确认篇幅':'';
+    var r=$('budgetRowA');
+    r.style.opacity = gated?'.5':'1';
+    r.style.pointerEvents = gated?'none':'auto';
+    r.title = gated?'请先确认目录，再确认篇幅':'';
   }
   /* 目录确认（方案B第1步 / 方案A默认已确认） */
   $('btnStep1').addEventListener('click',function(){
